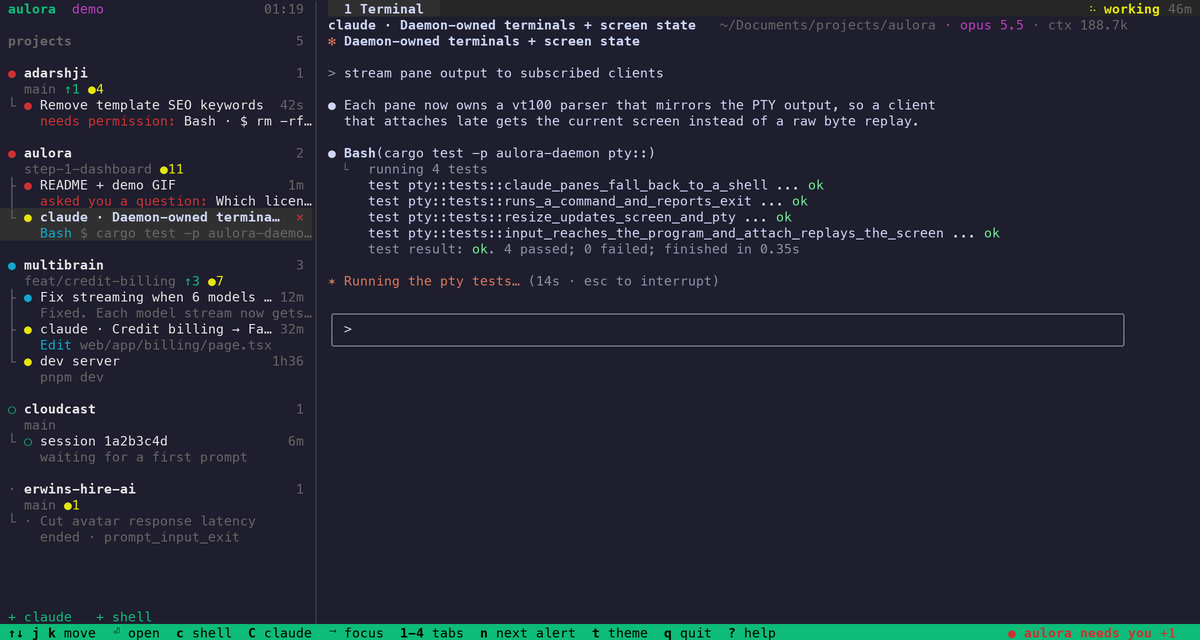
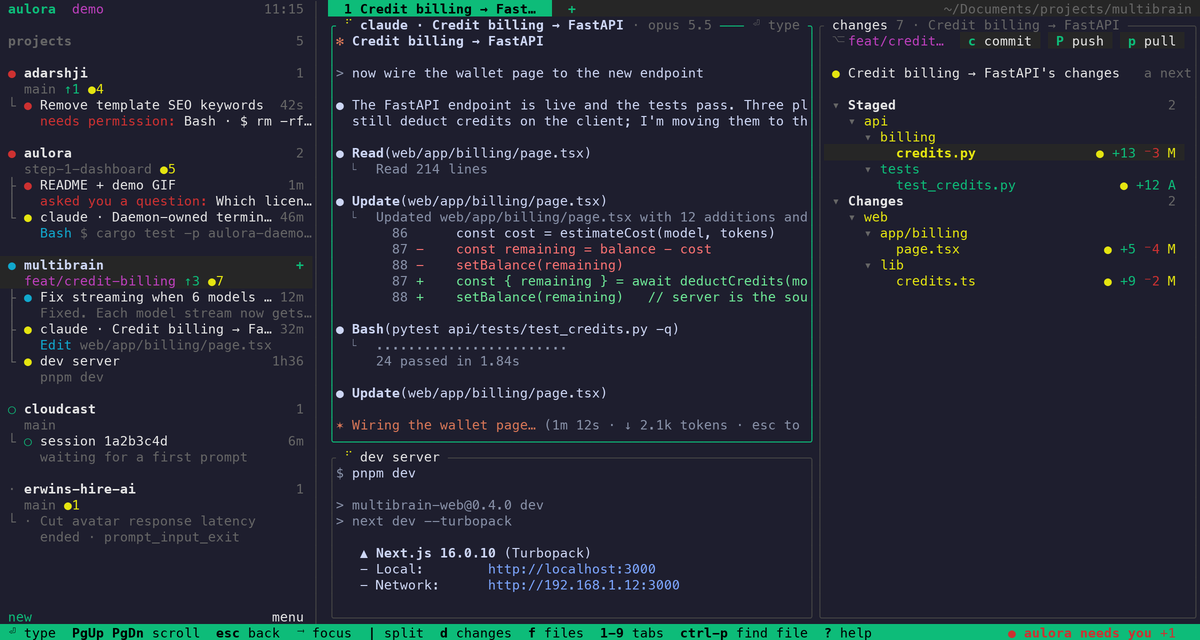
docs: Describe tiled panes, links, Finder and image paste.

diff --git a/docs/DESIGN.md b/docs/DESIGN.md
@@ -13,27 +13,28 @@ aulora should feel like **home**: familiar from the first minute because it beha
 ## Layout
 
 ```
- aulora                  23:41 │ 1 Terminal   2 Changes 7   3 Files      ● working 4m
- projects                    3 │ claude · Credit billing → FastAPI   ~/…/multibrain
-                               │
- ● multibrain                + │  (the agent's terminal, live)
-   feat/credit-billing ↑3 ●7   │
- ├ ● claude · billing    32m × │
- │   Edit page.tsx             │
- └ ○ dev server         1h36   │
-     pnpm dev                  │
-                               │
- ● adarshji                  1 │
-   main ↑1 ●4                  │
- └ · Remove SEO keywords       │
-     past session · 2h ago     │
+ aulora                 23:41 │  1 claude · billing   2 server   +        ● working 4m
+ projects                   3 │ ╭ ● claude · Credit billing · opus 5.5 ──╮╭ changes 7 ─────────╮
+                              │ │ ● Update(web/app/billing/page.tsx)      ││ ⎇ feat/credit-…    │
+ ● multibrain               + │ │   ⎿  Updated with +5 −4                 ││ ▾ Changes        5 │
+   feat/credit-billing ↑3 ●7  │ │ ✻ Wiring the wallet page… (1m 12s)     ││   page.tsx  ● +5 M │
+ ├ ● claude · billing   32m × │ ╰─────────────────────────────────────────╯│                    │
+ │   Edit page.tsx            │ ╭ ● dev server ──────────────────────────╮│                    │
+ └ ○ dev server        1h36   │ │ ✓ Ready in 812ms                        ││                    │
+     pnpm dev                 │ ╰─────────────────────────────────────────╯╰────────────────────╯
+ new                     menu │
 ```
 
 - **Sidebar, one tree** (VS Code's explorer, Herdr's spaces). Each project shows its rolled-up state and a second line for branch, ahead/behind and changes. Under it, `├`/`└` branches list everything that runs there, most urgent first: Claude panes, shells, commands, and Claude sessions running elsewhere. Projects sort the same way, so whatever needs you is near the top. A flat priority list was tried and dropped: it hid which project an agent belongs to, and that's the first thing you need when switching.
 - **The project is where new things start.** With a project or any of its agents selected, `C`, `c`, the `+` on the project row and the menu's *New Claude here* / *New shell here* start in that project's folder.
 - **Every agent is a terminal.** An agent aulora runs shows its live terminal. A session that has ended (or a past one, `h`) opens as a terminal running `claude --resume <id>` in the folder it ran in, so you continue it rather than read it. A session still running somewhere else (VS Code, Ghostty) shows its conversation read-only, with `r` to fork it here (`claude --resume <id> --fork-session`): resuming it outright would put two processes on one transcript.
 - **Closing** is a `×` on the hovered or selected row (VS Code's editor tabs), `x`, or the menu. Killing a running pane asks first; closing an exited pane or dismissing an ended session doesn't.
-- **Main area** shows the selected agent or project: a tab bar, a title and meta line, and the tab's content. Tabs: **Terminal · Changes · Files** for agents, **Overview** for projects, **Conversation** only for sessions running outside aulora. There is no Activity tab: events appear in the conversation where they happened (Claude Code's own transcript does this).
+- **Main area: tiled panes** (Herdr, zellij, tmux). Each project has tabs, shown as pills across the top with `+` for a new one; each tab is a layout of panes split side by side or one above the other. A pane is a terminal (Claude, a shell, a dev server, your editor) or one of aulora's views: Changes, Files, a session's conversation, the project overview. Everything stays on screen together, so nothing hides behind a tab.
+- **Focus is a frame.** Every pane has a thin rounded frame with its name and state in it; only the focused one is in the accent color (zellij's frames, Herdr's focus color). Tab and Shift-Tab go sidebar → each pane → sidebar, Option-arrows move to the pane in that direction, and a click focuses what it lands on.
+- **The sidebar and the panes follow each other.** Selecting an agent focuses its pane (in whatever tab it's in); focusing a pane selects its row. Selecting a session that runs elsewhere opens its conversation as a pane.
+- **Where new things go.** `|` and `-` split the focused pane with a new shell to the right or below, `C` puts Claude beside it, `T` (or `+`) opens a new tab. `d` and `f` show Changes and Files: they take the focused pane's place if it's a view, or open beside it if it's a terminal, since views never cover terminals. Panes started elsewhere (the command line, before a layout existed) get a tab of their own.
+- **Sizing.** Drag the border between two panes, or `<` `>` to shrink or grow the focused one, `=` to even them out, `z` to zoom one pane to the whole area and back. Layouts are saved in `~/.aulora/layouts.json`, so they come back when you reopen the dashboard; panes that are gone drop out.
+- There is no Activity tab: events appear in the conversation where they happened (Claude Code's own transcript does this).
 - **Rows** are two lines: `● name · detail` then an indented second line, tokens joined by ` · `. When space runs out, whole tokens drop before text is cut with `…` (Herdr).
 - **Narrow terminals** (< 90 columns): the sidebar collapses to glyphs and counts, and focus shows one region at a time (Herdr's compact sidebar, lazygit's portrait mode).
 
@@ -66,19 +67,24 @@ One keymap table drives key handling, the footer hints and the `?` help, so they
 | Key | Action | Precedent |
 |---|---|---|
 | `↑` `↓` / `j` `k` | move in the focused list, or scroll by line | everywhere |
-| `⇥` / `⇧⇥` | next / previous region | lazygit panels |
-| `1`–`4` | switch tabs | Herdr `prefix+1..9`, lazygit panel jumps |
-| `[` `]` | previous / next tab | vim-unimpaired, Herdr `n`/`p` |
+| `⇥` / `⇧⇥` | next / previous pane, the sidebar included | lazygit panels |
+| `⌥←↑↓→` | the pane in that direction | zellij `Alt+arrows` |
+| `1`–`9`, `{` `}` | go to a project tab; previous / next tab | Herdr `prefix+1..9` |
+| `\|` `-` | split: a new shell to the right, below | tmux `%` `"`, zellij |
+| `T` | a new tab | Herdr `prefix+c` |
+| `d` `f` | show Changes, Files beside this pane | VS Code's sidebar views |
+| `<` `>` `=` | shrink, grow, even out panes | tmux `resize-pane` |
 | `⏎` | open: type into a pane, focus a view, expand an item | |
 | `Ctrl-Q` | leave a terminal | claude-squad |
 | `Ctrl-P` / `:` | fuzzy jump to any project, agent, file or action | VS Code, k9s, posting |
 | `/` | search the focused view | less, vim, lazygit |
 | `n` | next thing that needs you (outside search) | Herdr `prefix+o` |
 | `c` / `C` | new shell / new Claude pane in this project | tmux `c` |
-| `z` | zoom the main area to the whole screen | tmux, Herdr `prefix+z` |
+| `z` | zoom the focused pane, and back | tmux, Herdr `prefix+z` |
 | `e` | edit the selected file in a terminal editor pane | lazygit `e` |
 | `o` | open in VS Code at the line | lazygit `o` |
-| `x` | close / kill (asks first when it would interrupt work) | k9s |
+| `x` | close a pane; a running terminal asks first | k9s |
+| `O` | show it in Finder | VS Code's Reveal in Finder |
 | `r` | restart an exited pane; resume a session in a new terminal | k9s `r` |
 | `m` | the selection's menu (same as right-click) | lazygit `?`-menus, VS Code context menu |
 | `t` | themes | Herdr settings |
@@ -90,6 +96,8 @@ The footer shows 5–7 hints for the focused region and `? more`, shortening lab
 ## Mouse
 
 - Mouse capture is on (Herdr, zellij). Click focuses and selects; clicking a selected row (or double-clicking) opens it; clicking a tab switches to it.
+- Links (`http://`, `https://`) anywhere on screen underline when the pointer is over them, and a click opens them in the browser. Cmd-click works the same way: terminals don't pass Cmd to programs, so it arrives as a click (iTerm2, VS Code and Terminal.app all do this). A program in a pane that reads the mouse still gets the click while you're typing into it.
+- Drag the border between two panes to resize them.
 - Hovering a row shows its button: `×` on agents, `+` on projects (VS Code's tabs and explorer). Only the hovered or selected row shows one, so the list stays calm.
 - Right-click opens a menu for what's under the pointer: Type here, Resume in a terminal, Restart, Close, New Claude here, New shell here, Open in VS Code (VS Code's context menu). In a program that reads the mouse, right-click goes to the program instead.
 - **The wheel scrolls whatever is under the pointer**, not whatever has focus (VS Code, Herdr).

diff --git a/README.md b/README.md
@@ -20,11 +20,13 @@ If you run Claude Code in several projects at once, you end up with a VS Code wi
 
 aulora watches every session through Claude Code's hooks and shows them all in one terminal dashboard:
 
+- **Everything on screen at once.** Like Herdr and tmux, each project's tab is a layout of split panes: Claude, your shells and dev server, your editor, and aulora's own views (Changes, Files, a session's conversation) side by side. <kbd>|</kbd> and <kbd>-</kbd> split, <kbd>d</kbd> and <kbd>f</kbd> open Changes and Files beside the focused pane, drag a border to resize, <kbd>z</kbd> zooms one pane. Layouts come back when you reopen aulora.
 - **What needs you.** Permission prompts, questions (`AskUserQuestion`) and plans waiting for review show in amber at the top, with what Claude is asking for.
 - **What's happening where.** One tree: each project with its branch and git status, and under it every agent running there. Every agent is a terminal. Sessions that have ended open again with `claude --resume`, in the folder they ran in. Sessions running in another app (VS Code, Ghostty) show their whole conversation, scrollable and searchable, with every tool call.
 - **What changed, and who changed it.** The Changes tab is VS Code's Source Control view: staged and unstaged files in a tree, a syntax-highlighted diff with changed words marked, and a colored dot for the Claude session that wrote each change, read from its transcript. Select an agent to see only what it wrote. <kbd>space</kbd> stages, <kbd>c</kbd> commits, <kbd>P</kbd> pushes, <kbd>o</kbd> opens the editor at the change.
 - **Read the code without VS Code.** The Files tab is a gitignore-aware tree with git status and who-wrote-it dots, a highlighted file view with change marks in the gutter, <kbd>Ctrl</kbd>+<kbd>P</kbd> to find any file by name, and <kbd>/</kbd> to search contents with ripgrep's engine. <kbd>e</kbd> opens the file in your terminal editor in a pane, at the line you're on.
 - **Run Claude and your shells inside it.** <kbd>C</kbd> starts Claude Code in a pane and <kbd>c</kbd> starts a shell. The daemon owns these terminals, so they keep running when you close the dashboard, and `aulora attach` puts any of them in another terminal. A Claude session in a pane shows its live status right above its screen.
+- **Paste images into Claude.** In a Claude pane, Ctrl-V pastes the clipboard's image as in Claude Code, and so does Cmd-V when the clipboard holds only an image. In the prompt box for a VS Code session, Ctrl-V saves the image and attaches it by path.
 - **Prompt sessions running in VS Code.** With the aulora extension (`aulora vscode install`), a session running in a VS Code or Cursor terminal gets a prompt box in aulora. What you write is typed into that terminal, so it shows up there as if you'd typed it, in the same session. aulora won't send while Claude is waiting on a permission prompt, where the keys would answer the dialog instead.
 - **Jump straight there.** <kbd>⏎</kbd> opens the project in your editor, and VS Code brings that project's window to the front. <kbd>n</kbd> cycles through the sessions that need you.
 
@@ -77,21 +79,25 @@ Sessions show up as soon as they start or you send a prompt. To try the dashboar
 
 ### Keys
 
-aulora follows Herdr: a sidebar with each **project** and the **agents** running in it (Claude panes, shells, Claude sessions elsewhere), and a main area with tabs. The mouse works everywhere: click to select or focus, wheel to scroll whatever is under the pointer, click a pane to type into it, <kbd>×</kbd> to close, right-click for a menu.
+aulora follows Herdr: a sidebar with each **project** and the **agents** running in it (Claude panes, shells, Claude sessions elsewhere), and a main area with tabs. The mouse works everywhere: click to select or focus, wheel to scroll whatever is under the pointer, click a pane to type into it, drag a border to resize, click (or Cmd-click) a link to open it, <kbd>×</kbd> to close, right-click for a menu.
 
 | Key | Action |
 |---|---|
 | <kbd>↑</kbd> <kbd>↓</kbd> / <kbd>j</kbd> <kbd>k</kbd> | Move in the sidebar; scroll a line in the main area |
 | <kbd>⏎</kbd> | Open: type into a pane, resume an ended session, expand a tool call |
-| <kbd>⇥</kbd> | Switch focus between the sidebar and the main area |
-| <kbd>1</kbd>–<kbd>4</kbd> | Switch tabs |
+| <kbd>⇥</kbd> / <kbd>⌥</kbd>+arrows | Next pane / the pane in that direction |
+| <kbd>\|</kbd> <kbd>-</kbd> | Split: a new shell to the right, below |
+| <kbd>d</kbd> <kbd>f</kbd> | Show Changes, Files beside this pane |
+| <kbd>T</kbd>, <kbd>1</kbd>–<kbd>9</kbd> | New tab; go to a tab |
+| <kbd><</kbd> <kbd>></kbd> <kbd>=</kbd> | Shrink, grow, even out panes (or drag a border) |
 | <kbd>Ctrl</kbd>+<kbd>Q</kbd> | Leave a terminal you're typing into (press it again to send Ctrl-Q to the program) |
-| <kbd>c</kbd> / <kbd>C</kbd> | New shell / new Claude Code pane in the selected project |
+| <kbd>c</kbd> / <kbd>C</kbd> | New shell / new Claude Code pane beside the focused one |
 | <kbd>n</kbd> | Jump to the next agent that needs you |
 | <kbd>r</kbd> | Restart an exited pane; resume a session in a new terminal |
 | <kbd>m</kbd> | Menu for the selection (same as right-click) |
 | <kbd>x</kbd> | Kill a pane (asks first), close an exited one, or dismiss an ended session |
-| <kbd>z</kbd> | Zoom the main area to the whole screen |
+| <kbd>z</kbd> | Zoom the focused pane |
+| <kbd>O</kbd> | Show the file or project in Finder |
 | <kbd>/</kbd> | Filter the sidebar; search a conversation |
 | <kbd>h</kbd> / <kbd>e</kbd> | Show past sessions / ended sessions |
 | <kbd>t</kbd> | Choose a theme |
